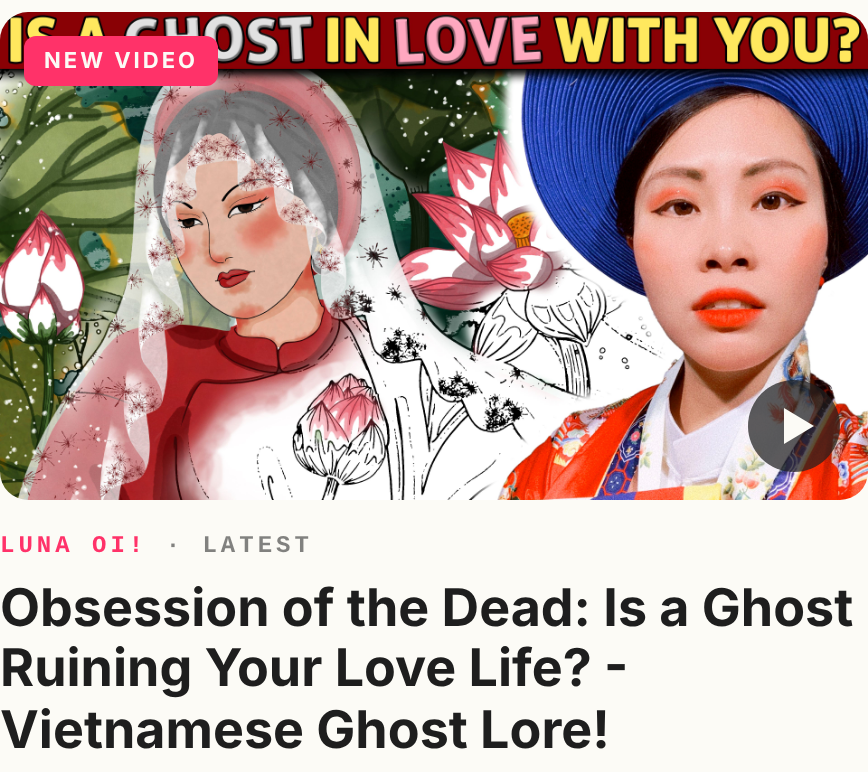
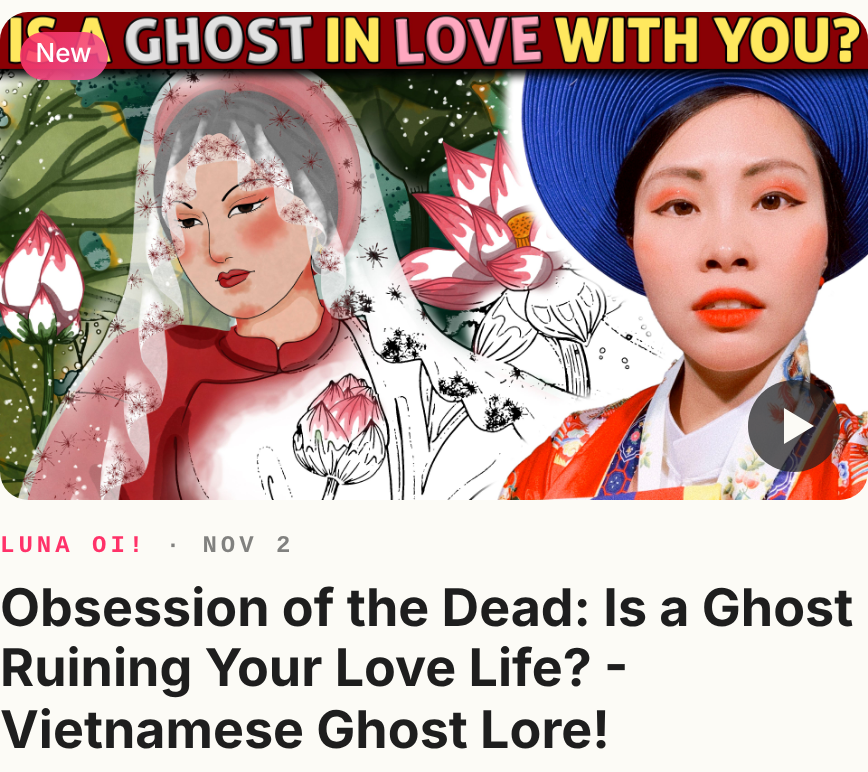
Card badge: site-style "New" pill (v2 gradient, rounded, slightly transparent)
Claude-Session: https://claude.ai/code/session_01EnsLwXgfEdCVZjjFjBjNr3

Changed region(s): [[0.0, 0.0311, 0.2488, 0.1244], [0.2177, 0.6839, 0.3733, 0.715]]

diff --git a/template/card.html b/template/card.html
@@ -18,11 +18,17 @@
   }
   .thumb img { width: 100%; height: 100%; object-fit: cover; display: block; }
   .pill {
-    position: absolute; top: 12px; left: 12px;
-    background: #FF3269; color: #fcfbf6;
-    font: 700 11px/1 'Helvetica Neue', Helvetica, Arial, sans-serif;
-    letter-spacing: 1.5px; text-transform: uppercase;
-    padding: 7px 10px; border-radius: 6px;
+    /* Matches the site's v2 "New" badge (head-code: .means-card-badge--pill):
+       135deg pink gradient, white Helvetica Neue 500, fully rounded, top-left.
+       Slightly see-through so the thumbnail shows behind it. */
+    position: absolute; top: 10px; left: 10px;
+    display: inline-flex; align-items: center;
+    height: 24px; padding: 0 0.6em 0.06em;
+    border-radius: 999px;
+    background: linear-gradient(135deg, rgba(255,49,98,.88) 0%, rgba(238,84,154,.88) 100%);
+    color: #ffffff;
+    font: 500 13px/1 'Helvetica Neue', Helvetica, Arial, sans-serif;
+    white-space: nowrap;
   }
   .play {
     position: absolute; right: 14px; bottom: 14px;
@@ -53,7 +59,7 @@
   <div class="card">
     <div class="thumb">
       <img src="{{THUMB}}" alt="">
-      <div class="pill">New video</div>
+      <div class="pill">New</div>
       <div class="play"></div>
     </div>
     <div class="meta">{{CREATOR}} <span>&middot; {{DATE}}</span></div>
